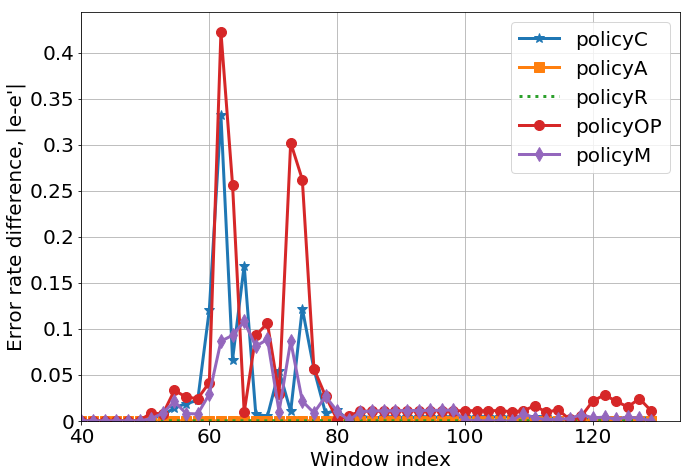
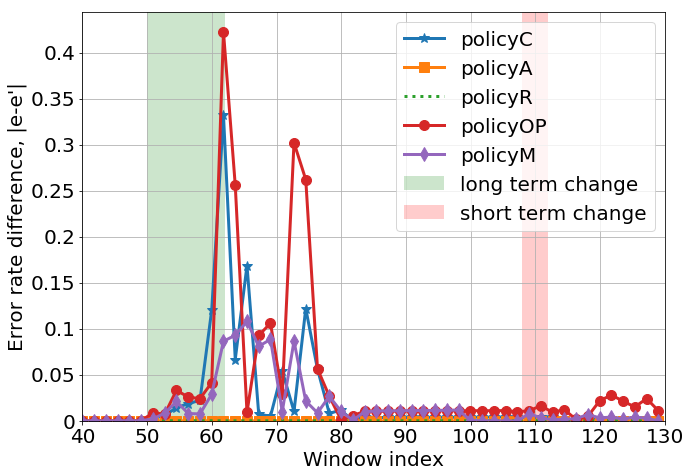
fixed plots for SVR error and comm

Changed region(s): [[0.0, 0.0295, 1.0, 1.0], [0.5791, 0.1179, 0.6401, 0.2063], [0.5791, 0.0589, 0.6401, 0.0884]]

diff --git a/example.tex b/example.tex
@@ -127,7 +127,7 @@ The optimal stopping time $t^{*}$ that maximizes the essential supremum $\mbox{e
 \[
 F_{Z}(\Theta - S_{t}) \leq \frac{t+B}{t+1+B},
 \]
-where $F_{Z}(z)$ is the cumulative density function (CDF) of the error differences $Z_{t}$ of the old and the updated ML models $e_{t}$ and $e_{t}'$, respectively.}  
+where $F_{Z}(z)$ is the cumulative distribution function (CDF) of the error differences $Z_{t}$ of the old and the updated ML models $e_{t}$ and $e_{t}'$, respectively.}  
 \\
 
 % Taking into consideration that the expected reward $E[V_t]$ must be a positive value, we can calculate the probability interval that the cumulative sum is less than or equal to the set threshold.
@@ -137,10 +137,10 @@ where $F_{Z}(z)$ is the cumulative density function (CDF) of the error differenc
 % \emph{\textbf{Proof:}} \\
 
 \textbf{Proof of Theorem 1}
-From the reward function in (\ref{reward}) we can derive the expected current reward $E[V_t]$. 
+From the reward function in (\ref{reward}) we can derive the expected current reward $\mathbb{E}[V_t]$. 
 \begin{equation}
 \begin{split}
-    E[V_t] & = t \cdot P(S_t \leq \Theta) + (-B \cdot P(S_t > \Theta))\\
+    \mathbb{E}[V_t] & = t \cdot P(S_t \leq \Theta) + (-B \cdot P(S_t > \Theta))\\
     & = t \cdot P(S_t \leq \Theta) - B \cdot (1 - P(S_t \leq \Theta))\\
     & = (t + B) \cdot P(S_t \leq \Theta) - B,
 \end{split}
@@ -543,11 +543,15 @@ The number of iterations between two model updates are referred to as waiting ti
 \hline
 \multicolumn{3}{|c|}{\cellcolor[HTML]{DAE8FC}\textbf{ANOVA test results}}       \\ \hline
 \multicolumn{3}{|l|}{\cellcolor[HTML]{FFFFFF}\textbf{p-value for waiting time}} \\ \hline
-pi3    & 1.2483606116074772e-30   & \textless{}= 0.05                           \\ \hline
-pi4    & 7.892553014202059e-14    & \textless{}= 0.05                           \\ \hline
+% pi3    & 1.2483606116074772e-30   & \textless{}= 0.05                           \\ \hline
+% pi4    & 7.892553014202059e-14    & \textless{}= 0.05                           \\ \hline
+pi3           & 1.248e-30         & \textless{}= 0.05                           \\ \hline
+pi4           & 7.893e-14         & \textless{}= 0.05                           \\ \hline
 \multicolumn{3}{|l|}{\cellcolor[HTML]{FFFFFF}\textbf{p-value for abs error}}    \\ \hline
-pi3    & 1.2436387993444255e-13   & \textless{}= 0.05                           \\ \hline
-pi4    & 2.7228117694830134e-17   & \cellcolor[HTML]{FFFFFF}\textless{}= 0.05   \\ \hline
+% pi3    & 1.2436387993444255e-13   & \textless{}= 0.05                           \\ \hline
+% pi4    & 2.7228117694830134e-17   & \cellcolor[HTML]{FFFFFF}\textless{}= 0.05   \\ \hline
+pi3           & 1.244e-13         & \textless{}= 0.05                           \\ \hline
+pi4           & 2.723e-17         & \cellcolor[HTML]{FFFFFF}\textless{}= 0.05   \\ \hline
 \end{tabular}
 \end{table}
 
@@ -576,9 +580,9 @@ The results in Figure \ref{fig:lin_reg_pi3_error_plot_diff_means} show that the 
 
 \subsection{Experimentation with Support Vector Regression models}
 
-After some analysis of the data it was found that the initial 100 datapoints of the HT sensor dataset contain a single drift in the observed pattern. However, the rest of the data used in the simulation of the online algorithm has no noticeable changes, which results in no communication between the edge node and the gateway. This called for placing an artificial change in the data. One gradual long term change and one abrupt short term change affecting only the MOX sensor data and preserving the genuine datastream for the humidity and temperature. This is aimed to simulate a new pattern in the data which will cause a change in the communicated models.
+After some analysis of the data it was found that the initial 100 datapoints of the HT sensor dataset contain a single drift in the observed pattern. However, the rest of the data used in the simulation of the online algorithm has no noticeable changes, which results in no communication between the edge node and the gateway. This called for placing an artificial change in the data. One incremental long term change and one abrupt short term change affecting only the MOX sensor data and preserving the genuine datastream for the humidity and temperature. This is aimed to simulate a new pattern in the data which will cause a change in the communicated models.
 
-The gradual long term change occurs from iteration 50 of the start of the simulation, where the MOX sensor values are increased with 10\% of the mean value in the next 12 iterations and after that the change is kept persistent throughout the rest of the simulation. This drift in the data is intended to serve as a critical change \cite{lautay2018} which should be detected by the algorithm and acted upon as soon as possible.
+The incremental long term change occurs from iteration 50 of the start of the simulation, where the MOX sensor values are increased with 10\% of the mean value in the next 12 iterations and after that the change is kept persistent throughout the rest of the simulation. This drift in the data is intended to serve as a critical change \cite{lautay2018} which should be detected by the algorithm and acted upon as soon as possible.
 
 The second abrupt short term change occurs in iteration 108. The change in the MOX sensor values is increased with 2.5\% of the mean value and then decreased to the genuine datastream in the next 4 iterations. This drift in the data is intended to serve as a nuisance change \cite{lautay2018} which should be of least importance to the algorithm.
 
@@ -622,11 +626,15 @@ The waiting times for each policy is investigated further again by performing an
 \hline
 \multicolumn{3}{|c|}{\cellcolor[HTML]{DAE8FC}\textbf{ANOVA test results}}       \\ \hline
 \multicolumn{3}{|l|}{\cellcolor[HTML]{FFFFFF}\textbf{p-value for waiting time}} \\ \hline
-R3    & 9.198283524237108e-18     & \textless{}= 0.05                           \\ \hline
-R5    & 1.4772473722529788e-32    & \textless{}= 0.05                           \\ \hline
+% R3    & 9.198283524237108e-18     & \textless{}= 0.05                           \\ \hline
+% R5    & 1.4772473722529788e-32    & \textless{}= 0.05                           \\ \hline
+R3                 & 9.198e-18     & \textless{}= 0.05                           \\ \hline
+R5                 & 1.477e-32    & \textless{}= 0.05                           \\ \hline
 \multicolumn{3}{|l|}{\cellcolor[HTML]{FFFFFF}\textbf{p-value for abs error}}    \\ \hline
-R3    & 6.003242592652264e-23     & \textless{}= 0.05                           \\ \hline
-R5    & 1.0617164482428442e-11    & \cellcolor[HTML]{FFFFFF}\textless{}= 0.05   \\ \hline
+% R3    & 6.003242592652264e-23     & \textless{}= 0.05                           \\ \hline
+% R5    & 1.0617164482428442e-11    & \cellcolor[HTML]{FFFFFF}\textless{}= 0.05   \\ \hline
+R3                 & 6.003e-23     & \textless{}= 0.05                           \\ \hline
+R5                 & 1.062e-11    & \cellcolor[HTML]{FFFFFF}\textless{}= 0.05   \\ \hline
 \end{tabular}
 \end{table}
 
@@ -660,7 +668,7 @@ On the contrary, if the generated models are expected to produce low quality pre
 \begin{tabular}{|l|l|l|}
 \hline
 \rowcolor[HTML]{c1fbc0} 
-\multicolumn{1}{|c|}{\cellcolor[HTML]{c1fbc0}Model type} & \multicolumn{1}{c|}{\cellcolor[HTML]{c1fbc0}\begin{tabular}[c]{@{}c@{}}High quality \\ predictions\end{tabular}} & \multicolumn{1}{c|}{\cellcolor[HTML]{c1fbc0}\begin{tabular}[c]{@{}c@{}}Low quality \\ predictions\end{tabular}} \\ \hline
+\multicolumn{1}{|c|}{\cellcolor[HTML]{c1fbc0}Policy} & \multicolumn{1}{c|}{\cellcolor[HTML]{c1fbc0}\begin{tabular}[c]{@{}c@{}}High quality \\ predictions\end{tabular}} & \multicolumn{1}{c|}{\cellcolor[HTML]{c1fbc0}\begin{tabular}[c]{@{}c@{}}Low quality \\ predictions\end{tabular}} \\ \hline
 \textbf{policy C}& \begin{tabular}[c]{@{}l@{}}high error and \\ high communication\end{tabular}& \checkmark\\ \hline
 \textbf{policy M}& \checkmark& \begin{tabular}[c]{@{}l@{}}high \\ communication\end{tabular}\\ \hline
 \textbf{policy OP}& high error& \checkmark\\ \hline
